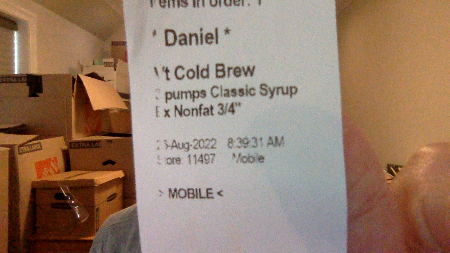
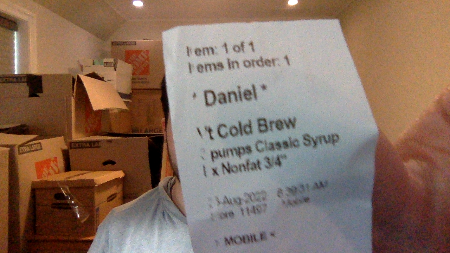
Taking a photo will add the text from the photo to the input field in AddJournal

diff --git a/src/Components/Camera.js b/src/Components/Camera.js
@@ -4,15 +4,17 @@ import Webcam from "react-webcam";
 import { Box, Button, Text } from "@chakra-ui/react";
 import axios from "axios";
 
-const Cam = () => {
+const Cam = (props) => {
   const camera = useRef(null);
   const [image, setImage] = useState(null);
-
+  const { setJournal, today } = props;
   async function handleSubmit(img) {
     try {
       const body = { img };
       const { data } = await axios.post("/", body);
       console.log(data.fullTextAnnotation.text);
+      console.log(props)
+      setJournal({content: data.fullTextAnnotation.text, date: today})
     } catch (e) {
       console.error(e);
     }

diff --git a/src/Components/Journals/AddJournal.js b/src/Components/Journals/AddJournal.js
@@ -2,6 +2,7 @@ import React from "react";
 import { useState } from "react";
 import { supabase } from "../../server/supabaseClient";
 import { useNavigate } from "react-router-dom";
+import Cam from "../Camera"
 import {
   Button,
   Input,
@@ -85,6 +86,7 @@ const AddJournal = () => {
           </Button>
         </>
       )}
+      <Cam setJournal={setJournal} today={today}/>
     </Stack>
   );
 };
